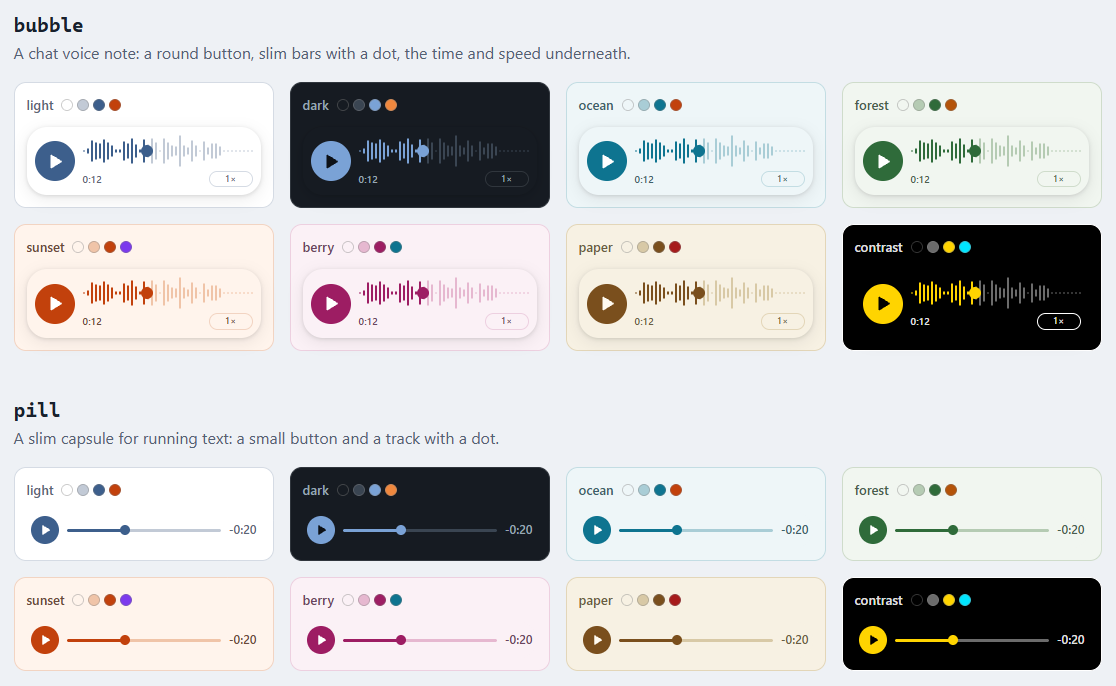
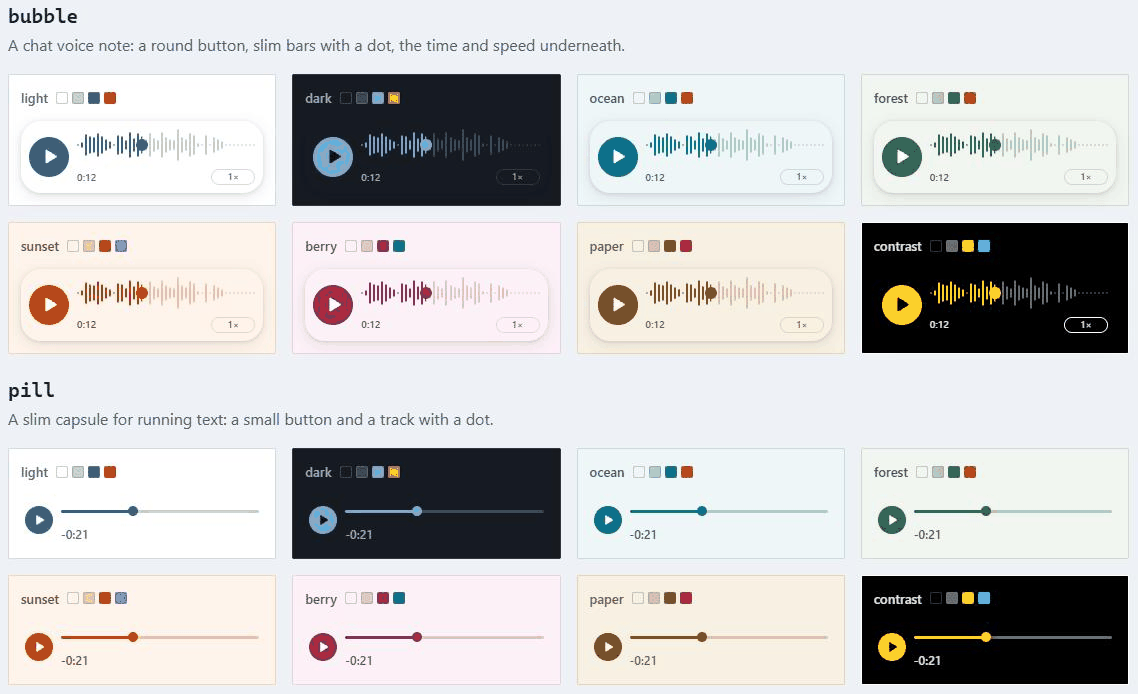
docs: new README pictures from the new site, and one of the voice note on a phone

diff --git a/README.md b/README.md
@@ -56,7 +56,7 @@ Zoom, scroll and a minimap, with ready-made peaks files, so an hour of audio ope
 <td valign="top">
 <img src="https://raw.githubusercontent.com/ediejohnny/sonicframe/main/assets/icons/themes.svg" alt="" width="20" height="20">
 <strong>A whole player in one line</strong><br>
-25 themes, 8 palettes and 10 drawings, from JavaScript or as an HTML tag.
+24 themes, 8 palettes and 10 drawings, from JavaScript or as an HTML tag.
 </td>
 </tr>
 </table>
@@ -178,6 +178,8 @@ Every option, method, event and attribute is in the
 ![Plugins on the wave: two markers, a region named Verse, a timeline, a caption with badges, a spectrogram under a line, and live frequency bars](https://raw.githubusercontent.com/ediejohnny/sonicframe/main/assets/screenshots/plugins.png)
 
 ![The bubble and pill themes, each in all eight palettes](https://raw.githubusercontent.com/ediejohnny/sonicframe/main/assets/screenshots/gallery.png)
+
+<img src="https://raw.githubusercontent.com/ediejohnny/sonicframe/main/assets/screenshots/narrow.png" alt="On a phone the player turns into a voice note: the play button beside the wave, the time under the wave on the left, and the speed and zoom buttons on its right" width="360">
 
 ## <img src="https://raw.githubusercontent.com/ediejohnny/sonicframe/main/assets/icons/browsers.svg" alt="" width="24" height="24"> Browser support
 
